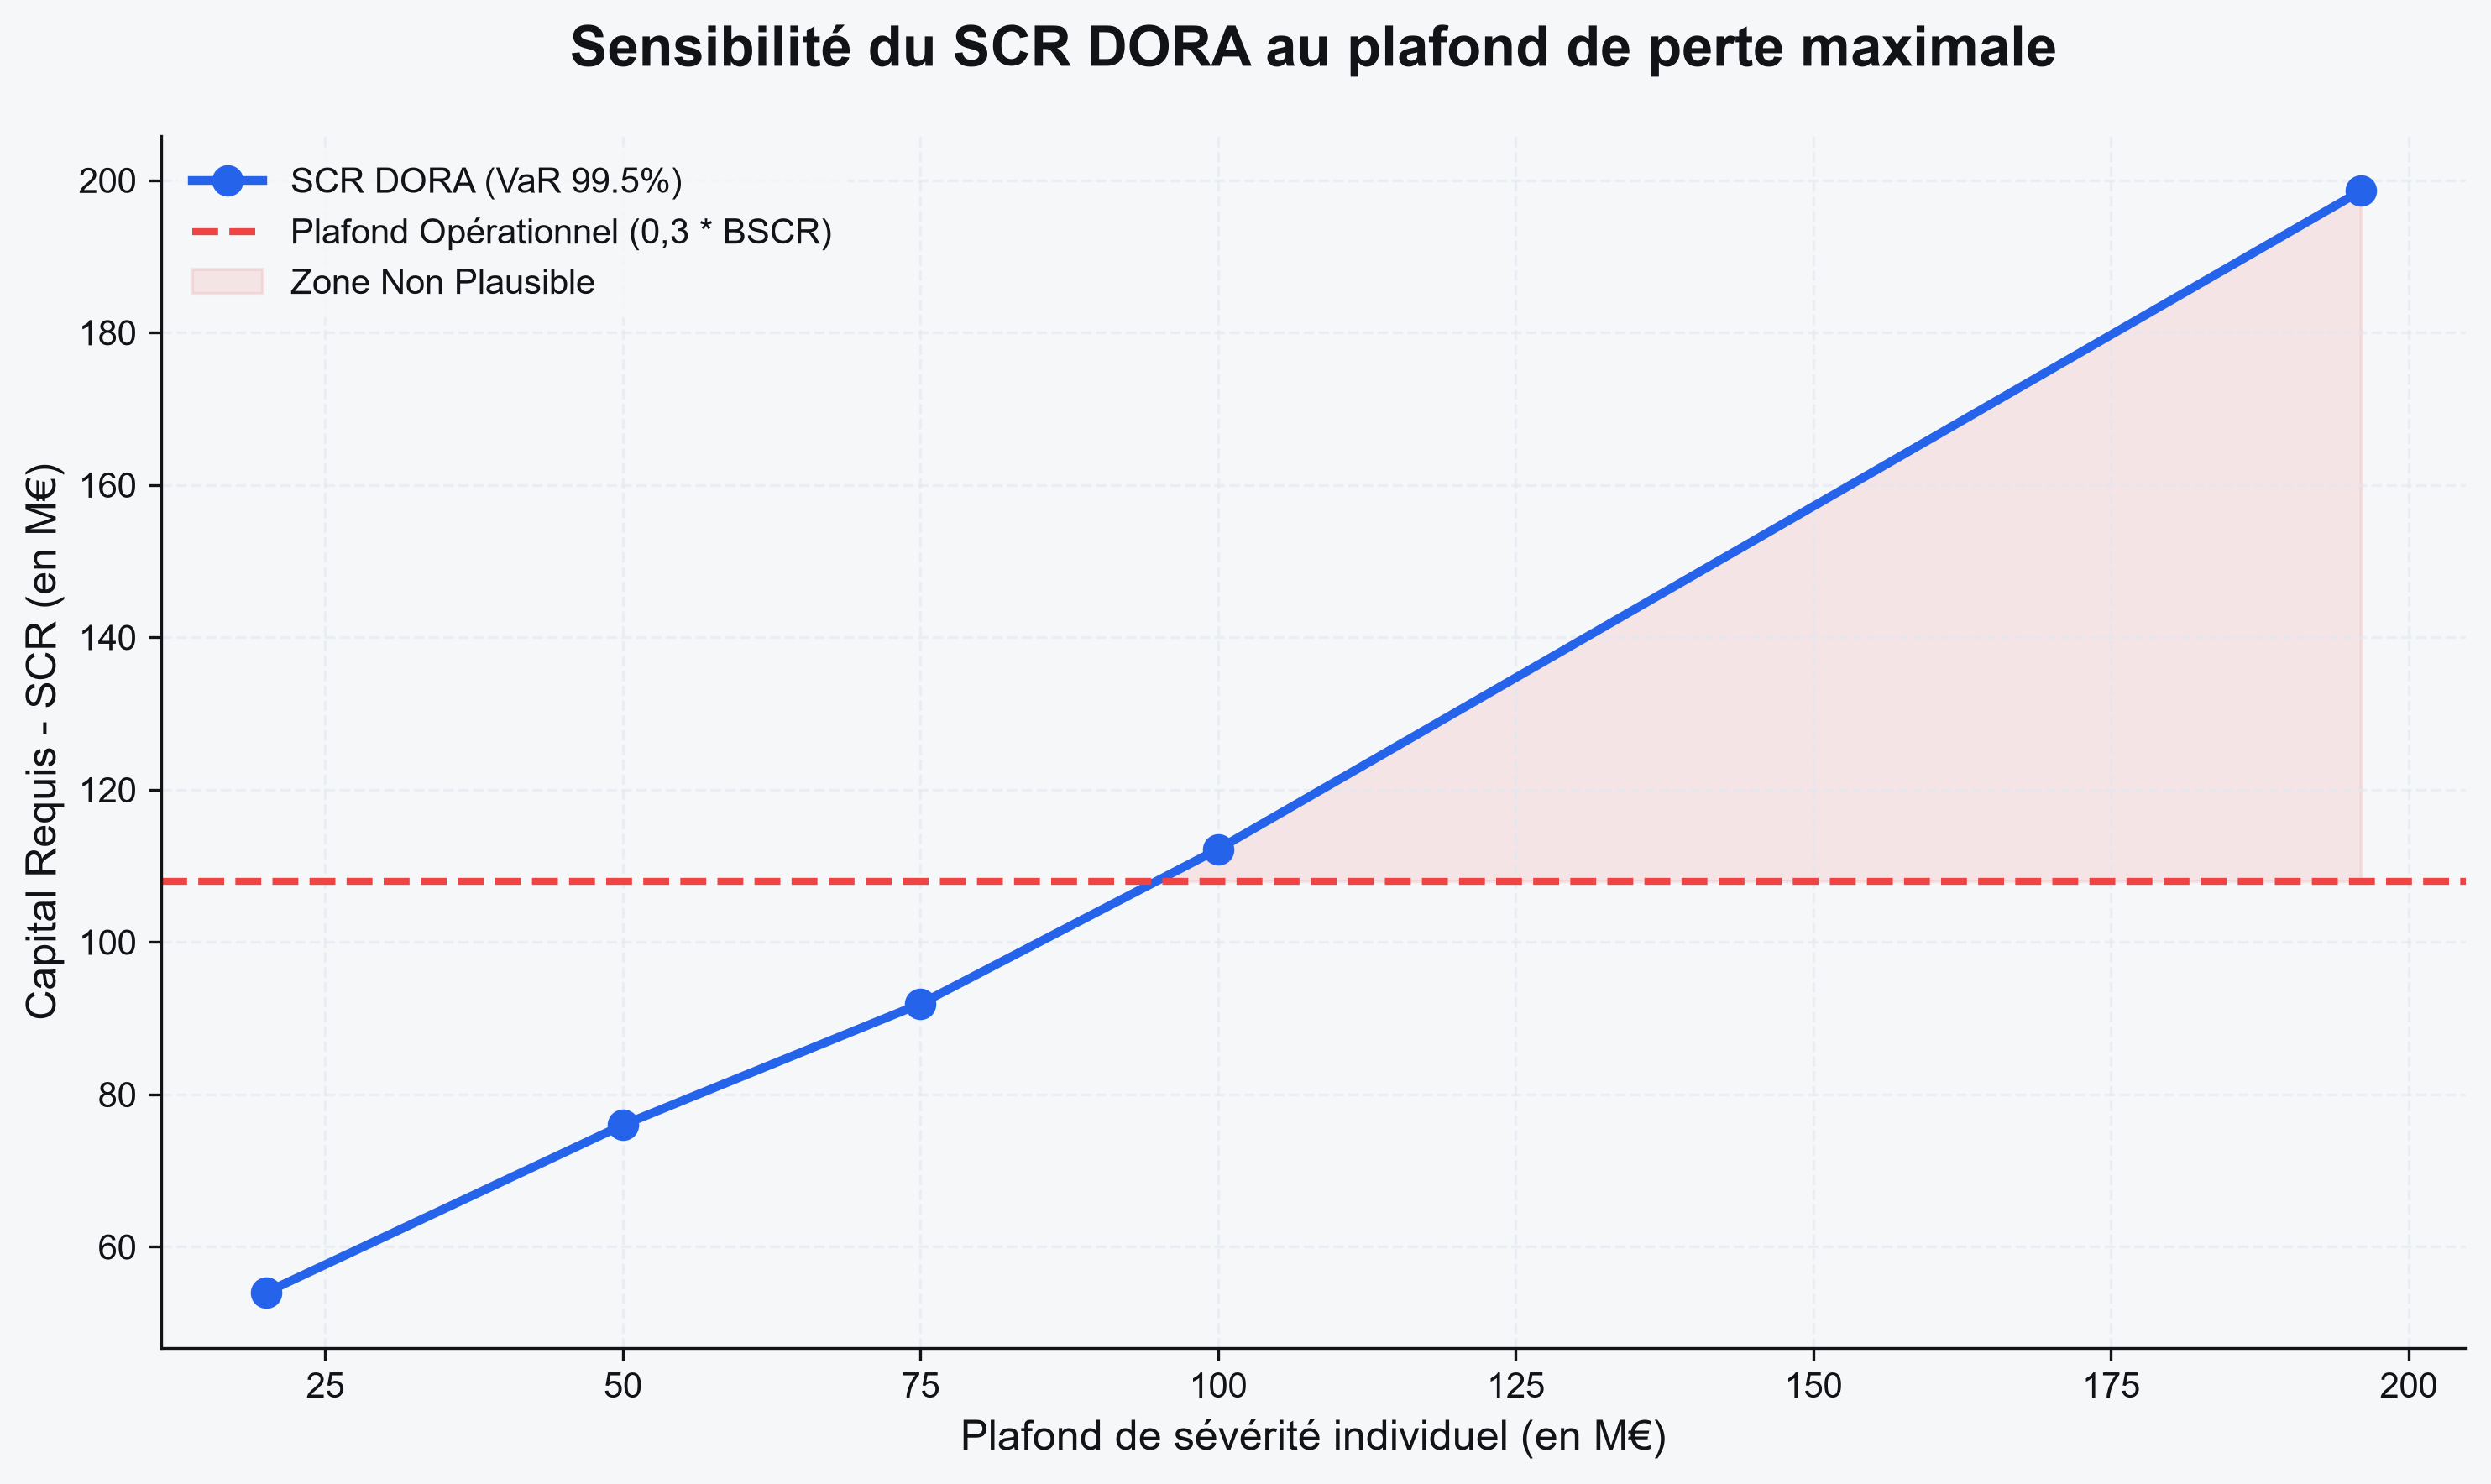
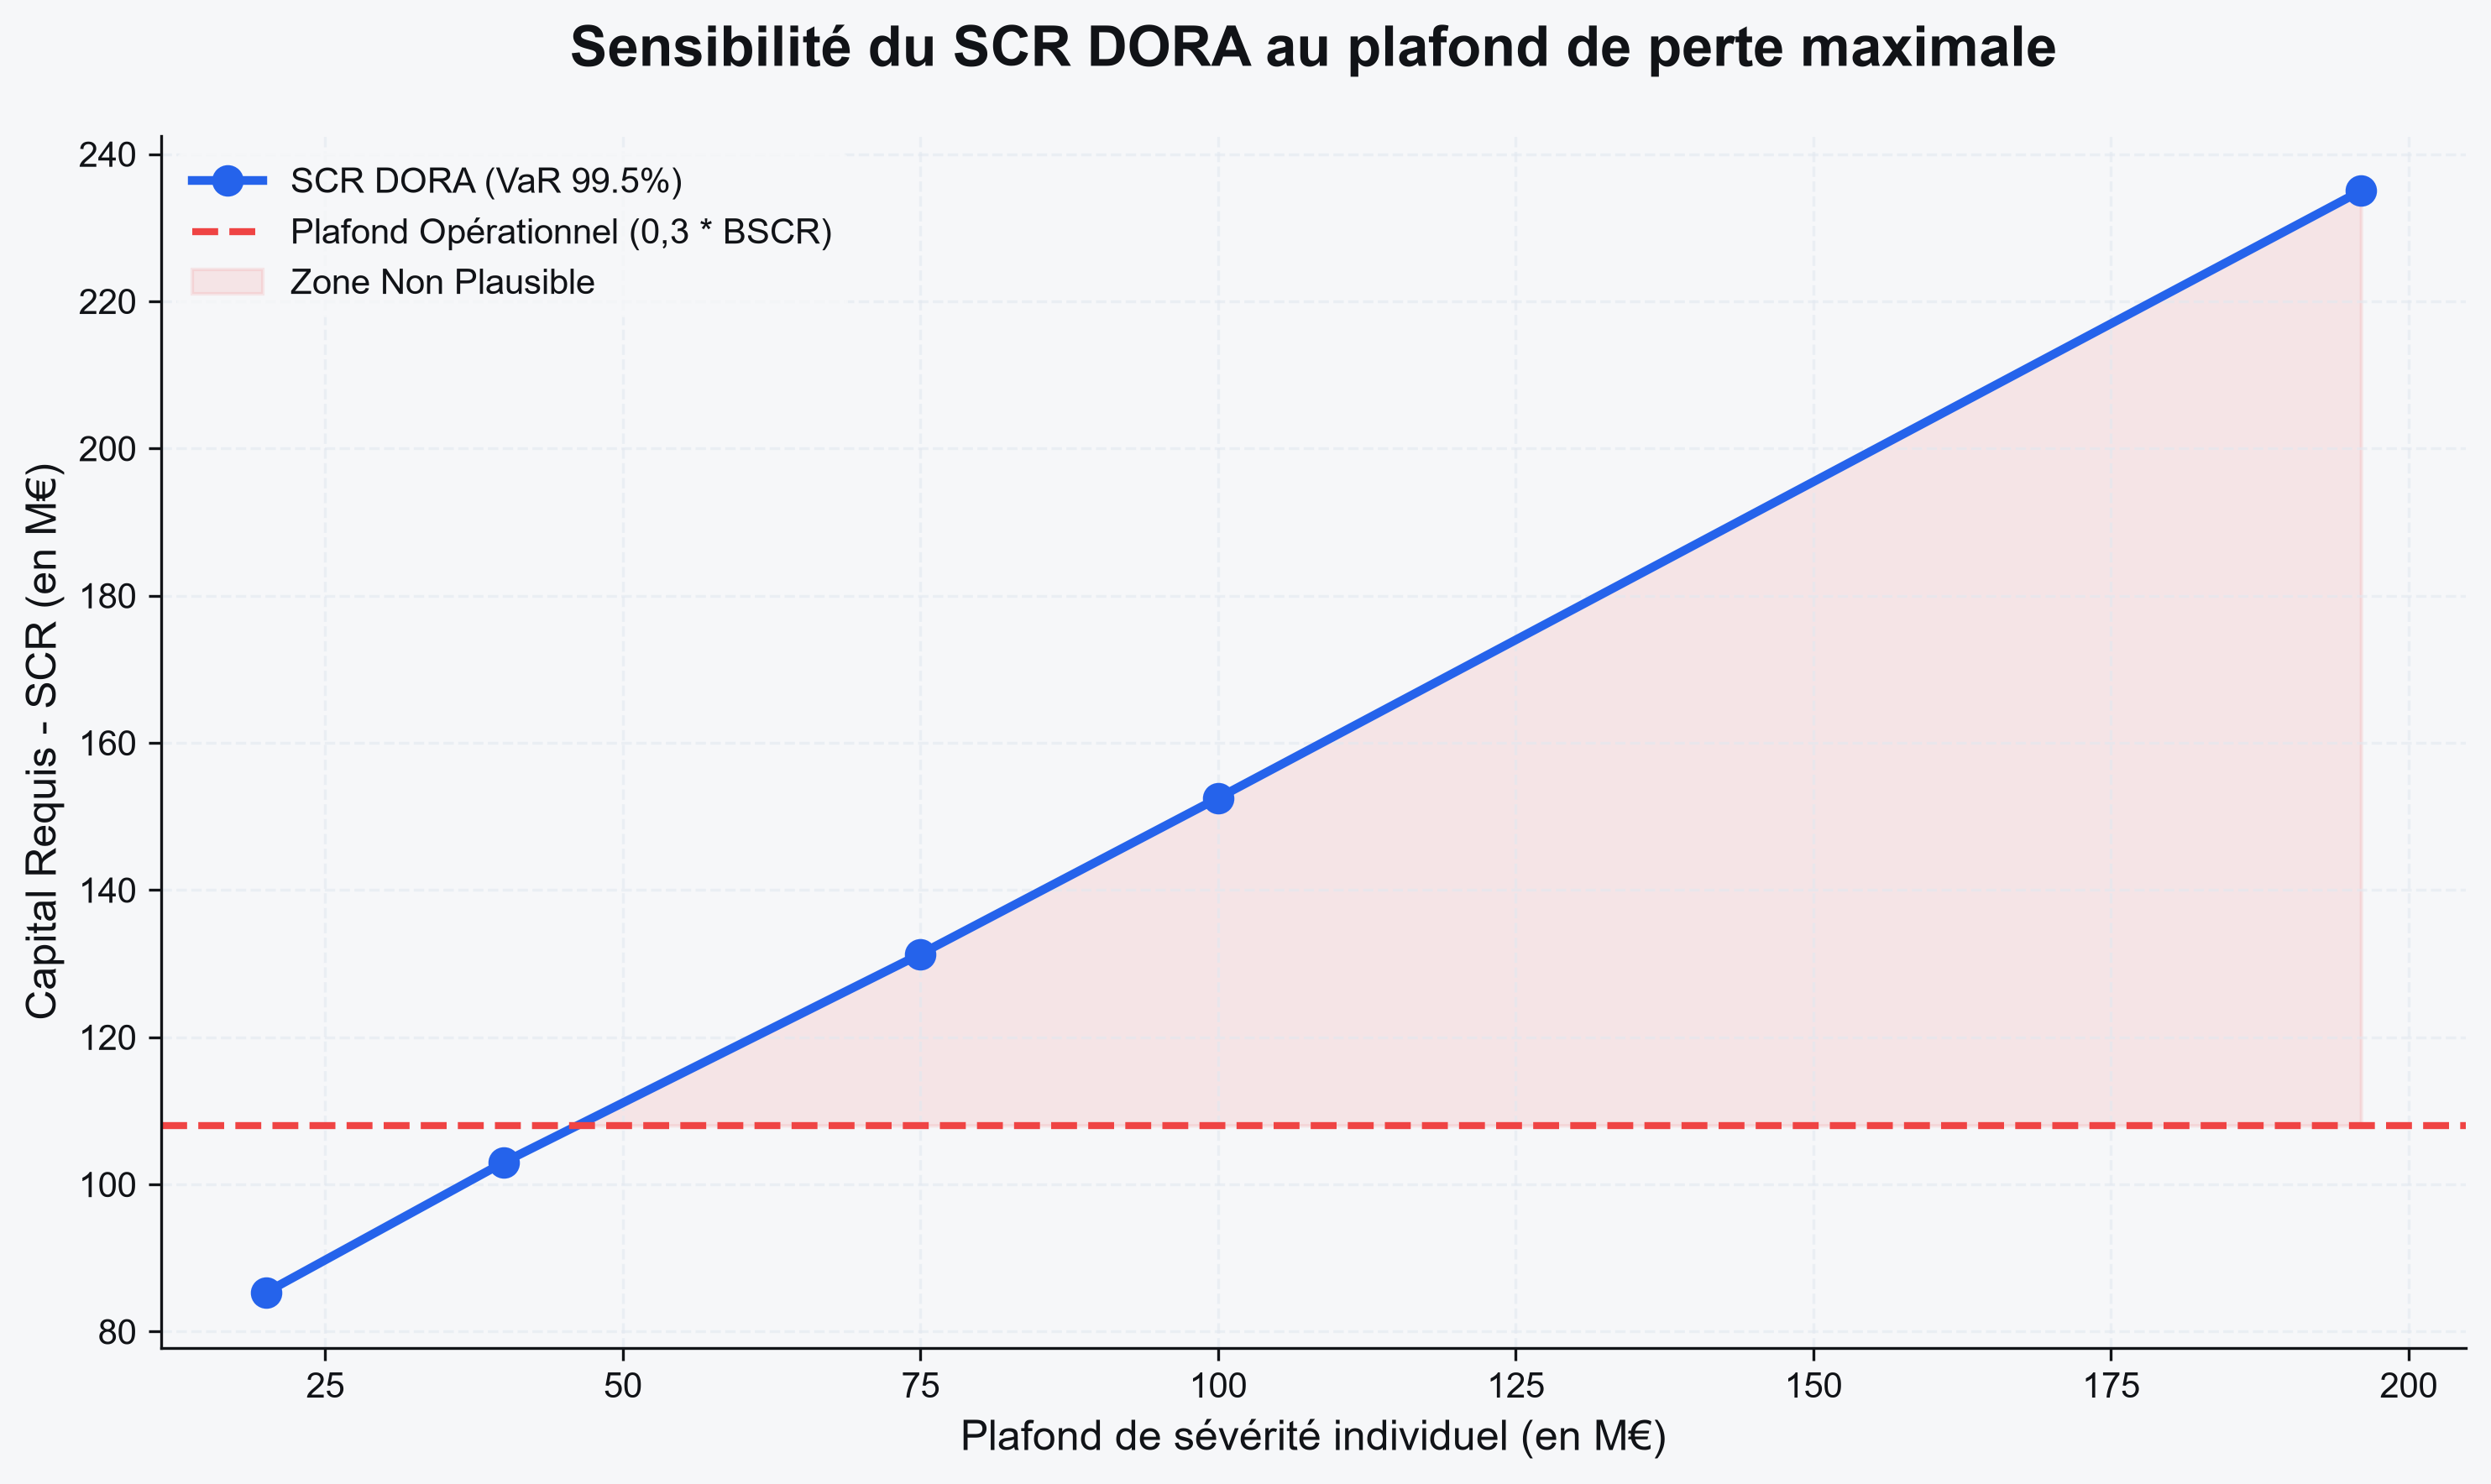
Mise à jour des scripts de simulation et de l'analyse de sensibilité

diff --git a/projet_dora/ldora_facteur_commun.py b/projet_dora/ldora_facteur_commun.py
@@ -20,21 +20,27 @@ pas par le tau de Kendall global (pollue par la masse en zero des briques
 rares), mais par la CONCENTRATION SYSTEMIQUE dans la queue de L_DORA :
       P(choc | L_DORA > VaR_99.5%)  >>  P(choc).
 
-Resultat de reference : SCR_DORA ~ 85 M (meme ordre que l'approche A ~77 M),
+Resultat de reference : SCR_DORA ~ 77 M (meme ordre que l'approche A ~77 M),
 borne par la somme comonotone des VaR marginales (cf garde-fou).
+NB : le plafond de severite individuel a ete corrige de 50 M a 40 M (alignement
+sur l'approche A, ancre sur la capacite de reassurance ~5% FP). Le SCR precedemment
+annonce a ~85 M etait conditionnel au plafond 50 M.
 =======================================================================
 """
 
 import numpy as np
 from scipy import stats
 
-rng = np.random.default_rng(20260616)
+# Note : le générateur aléatoire (rng) n'est plus déclaré au niveau module.
+# Il est passé en paramètre à chaque fonction pour garantir la reproductibilité
+# lorsque ce module est importé depuis un autre script (bootstrap, robustesse).
 
 # ----------------------------------------------------------------------
 # 1. Assureur synthetique (inchange vs approche A)
 # ----------------------------------------------------------------------
 CA, BSCR, FP = 800e6, 360e6, 784e6
-CAP_SEV      = 50e6            # plafond de severite individuel (~10% FP)
+CAP_SEV      = 40e6            # plafond de sévérité individuel (~5% FP, ancré sur
+                               # réassurance cyber, aligné sur l'approche A)
 
 # ----------------------------------------------------------------------
 # 2. Severite remediation : corps lognormal + queue GPD (POT)
@@ -46,7 +52,7 @@ U_POT    = 5e6                 # seuil POT
 XI_REF   = 1.4                 # forme (litterature), queue lourde xi>1
 BETA_REF = U_POT * 0.9         # echelle GPD recalee sur marge remediation
 
-def severite_remediation(n, xi, beta):
+def severite_remediation(n, xi, beta, rng):
     """Melange corps lognormal (sous u) + u+GPD (queue), plafonne."""
     x = rng.lognormal(MU_LN, SIG_LN, size=n)
     tail = x > U_POT
@@ -83,9 +89,22 @@ PREST_MU, PREST_SIG = np.log(18e6), 0.7
 # 4. Simulateur
 # ----------------------------------------------------------------------
 def simulate(M, k=K_FRAILTY, xi=XI_REF, beta=BETA_REF, cap=CAP_SEV,
-             p_sys=P_SYS, return_B=False):
-    global CAP_SEV
-    CAP_SEV = cap
+             p_sys=P_SYS, return_B=False, rng=None):
+    """
+    Simule M années de pertes DORA par le modèle à facteur commun.
+
+    Paramètres
+    ----------
+    rng : numpy.random.Generator, optionnel
+        Générateur aléatoire. Si None, crée un générateur avec graine 20260616.
+        Passer rng explicitement garantit la reproductibilité quand ce module
+        est appelé depuis un script externe (bootstrap, comparaison Gumbel).
+    cap : float
+        Plafond de sévérité individuel. Par défaut CAP_SEV = 40 M€,
+        aligné sur le scénario central de l'approche A (ancre réassurance ~5% FP).
+    """
+    if rng is None:
+        rng = np.random.default_rng(20260616)
 
     Z = rng.gamma(k, 1.0 / k, size=M)        # frailty doux, E[Z]=1
     B = rng.random(M) < p_sys                 # choc systemique partage
@@ -95,7 +114,7 @@ def simulate(M, k=K_FRAILTY, xi=XI_REF, beta=BETA_REF, cap=CAP_SEV,
     L_rem = np.zeros(M)
     idx = np.repeat(np.arange(M), n_rem)
     if idx.size:
-        np.add.at(L_rem, idx, severite_remediation(idx.size, xi, beta))
+        np.add.at(L_rem, idx, severite_remediation(idx.size, xi, beta, rng))
 
     # --- Sanction (atome en zero) ---
     p_s = np.minimum(P_SANCTION * Z + B * P_SANCTION_SHOCK, 1.0)
@@ -107,7 +126,7 @@ def simulate(M, k=K_FRAILTY, xi=XI_REF, beta=BETA_REF, cap=CAP_SEV,
     L_pre = np.zeros(M)
     idxp = np.repeat(np.arange(M), n_pre)
     if idxp.size:
-        sevp = np.minimum(rng.lognormal(PREST_MU, PREST_SIG, idxp.size), CAP_SEV)
+        sevp = np.minimum(rng.lognormal(PREST_MU, PREST_SIG, idxp.size), cap)
         np.add.at(L_pre, idxp, sevp)
 
     if return_B:
@@ -121,7 +140,8 @@ VaR = lambda x, q=0.995: float(np.quantile(x, q))
 # ----------------------------------------------------------------------
 if __name__ == "__main__":
     M = 1_000_000
-    L_rem, L_sanct, L_pre, B = simulate(M, return_B=True)
+    rng_main = np.random.default_rng(20260616)
+    L_rem, L_sanct, L_pre, B = simulate(M, return_B=True, rng=rng_main)
     L_tot = L_rem + L_sanct + L_pre
 
     v_s, v_r, v_p = VaR(L_sanct), VaR(L_rem), VaR(L_pre)
@@ -153,20 +173,21 @@ if __name__ == "__main__":
 
     print("\n=== Sensibilite force de dependance k ===")
     for k in [1.0, 2.5, 5.0, 50.0]:
-        Lr, Ls, Lp = simulate(M, k=k)
+        Lr, Ls, Lp = simulate(M, k=k, rng=np.random.default_rng(20260616))
         print(f"  k={k:5.1f} (Var Z={1/k:5.3f})  SCR = {VaR(Lr+Ls+Lp)/1e6:6.1f} M")
 
     print("\n=== Sensibilite plafond de severite ===")
-    for cap in [20e6, 50e6, 75e6, 100e6]:
-        Lr, Ls, Lp = simulate(M, cap=cap)
+    for cap in [20e6, 40e6, 75e6, 100e6]:
+        Lr, Ls, Lp = simulate(M, cap=cap, rng=np.random.default_rng(20260616))
         print(f"  plafond={cap/1e6:4.0f}M  SCR = {VaR(Lr+Ls+Lp)/1e6:6.1f} M")
 
     print("\n=== Sensibilite xi ===")
     for xi in [1.1, 1.25, 1.4, 1.5]:
-        Lr, Ls, Lp = simulate(M, xi=xi, beta=U_POT * (xi / XI_REF) * 0.9)
+        Lr, Ls, Lp = simulate(M, xi=xi, beta=U_POT * (xi / XI_REF) * 0.9,
+                              rng=np.random.default_rng(20260616))
         print(f"  xi={xi:.2f}  SCR = {VaR(Lr+Ls+Lp)/1e6:6.1f} M")
 
     print("\n=== Sensibilite proba de choc systemique p_sys ===")
     for p in [0.01, 0.03, 0.05, 0.10]:
-        Lr, Ls, Lp = simulate(M, p_sys=p)
+        Lr, Ls, Lp = simulate(M, p_sys=p, rng=np.random.default_rng(20260616))
         print(f"  p_sys={p:.2f}  SCR = {VaR(Lr+Ls+Lp)/1e6:6.1f} M")

diff --git a/projet_dora/visualisation_memoire.py b/projet_dora/visualisation_memoire.py
@@ -42,9 +42,10 @@ plt.rcParams.update({
 def plot_sensibilite_plafond():
     """Génère la courbe de sensibilité du SCR DORA au plafond individuel."""
     
-    # Données issues de scr_dora_synthese_finale.py
-    plafonds_m = np.array([20, 50, 75, 100, 196])
-    scr_dora_m = np.array([54.0, 76.0, 91.9, 112.2, 198.6])
+    # Données issues de scr_dora_synthese_finale.py — plafond central = 40 M€
+    # Recalculées après correction du plafond (50 M€ -> 40 M€, copule Gumbel theta=1,8)
+    plafonds_m = np.array([20, 40, 75, 100, 196])
+    scr_dora_m = np.array([85.3, 103.0, 131.3, 152.5, 235.0])
     plafond_reglementaire_m = 108.0
 
     fig, ax = plt.subplots(figsize=(10, 6))